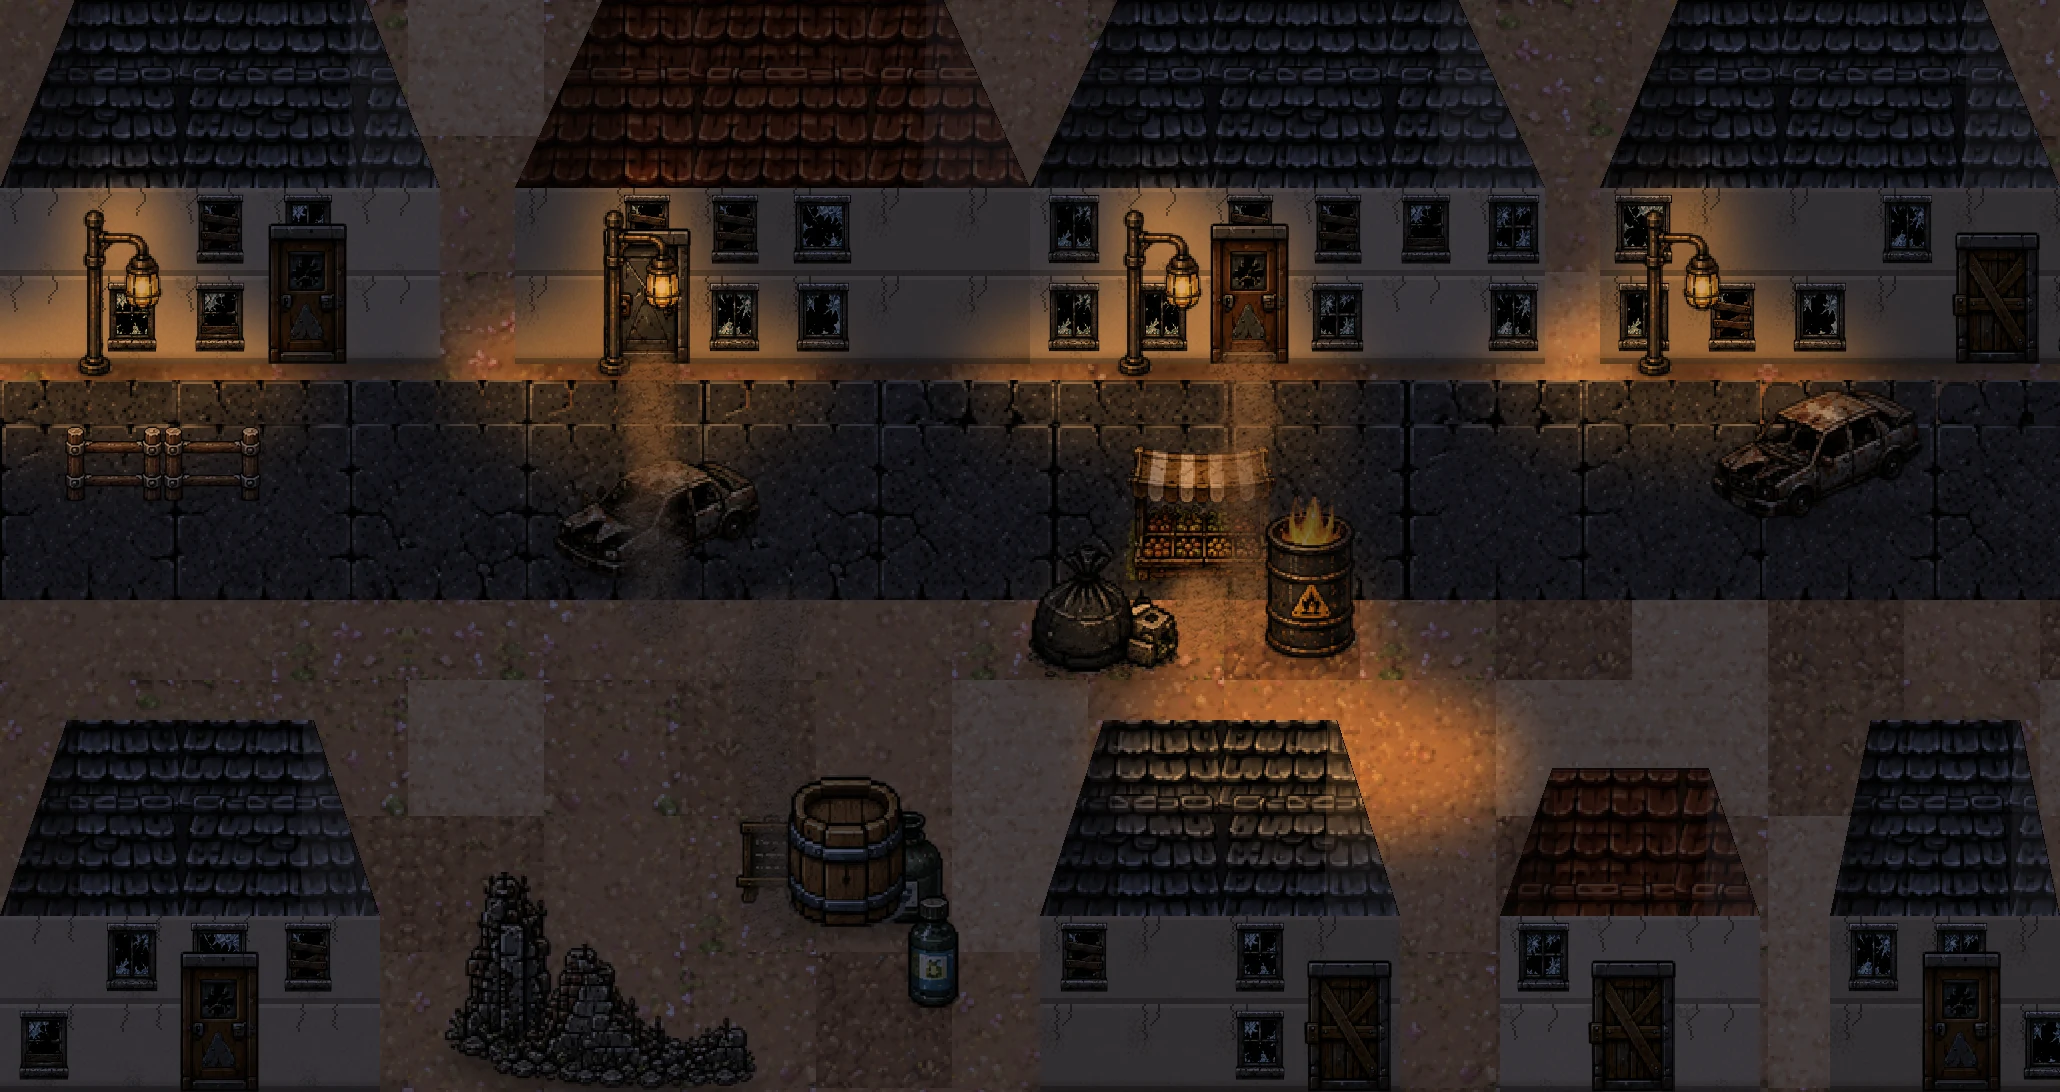
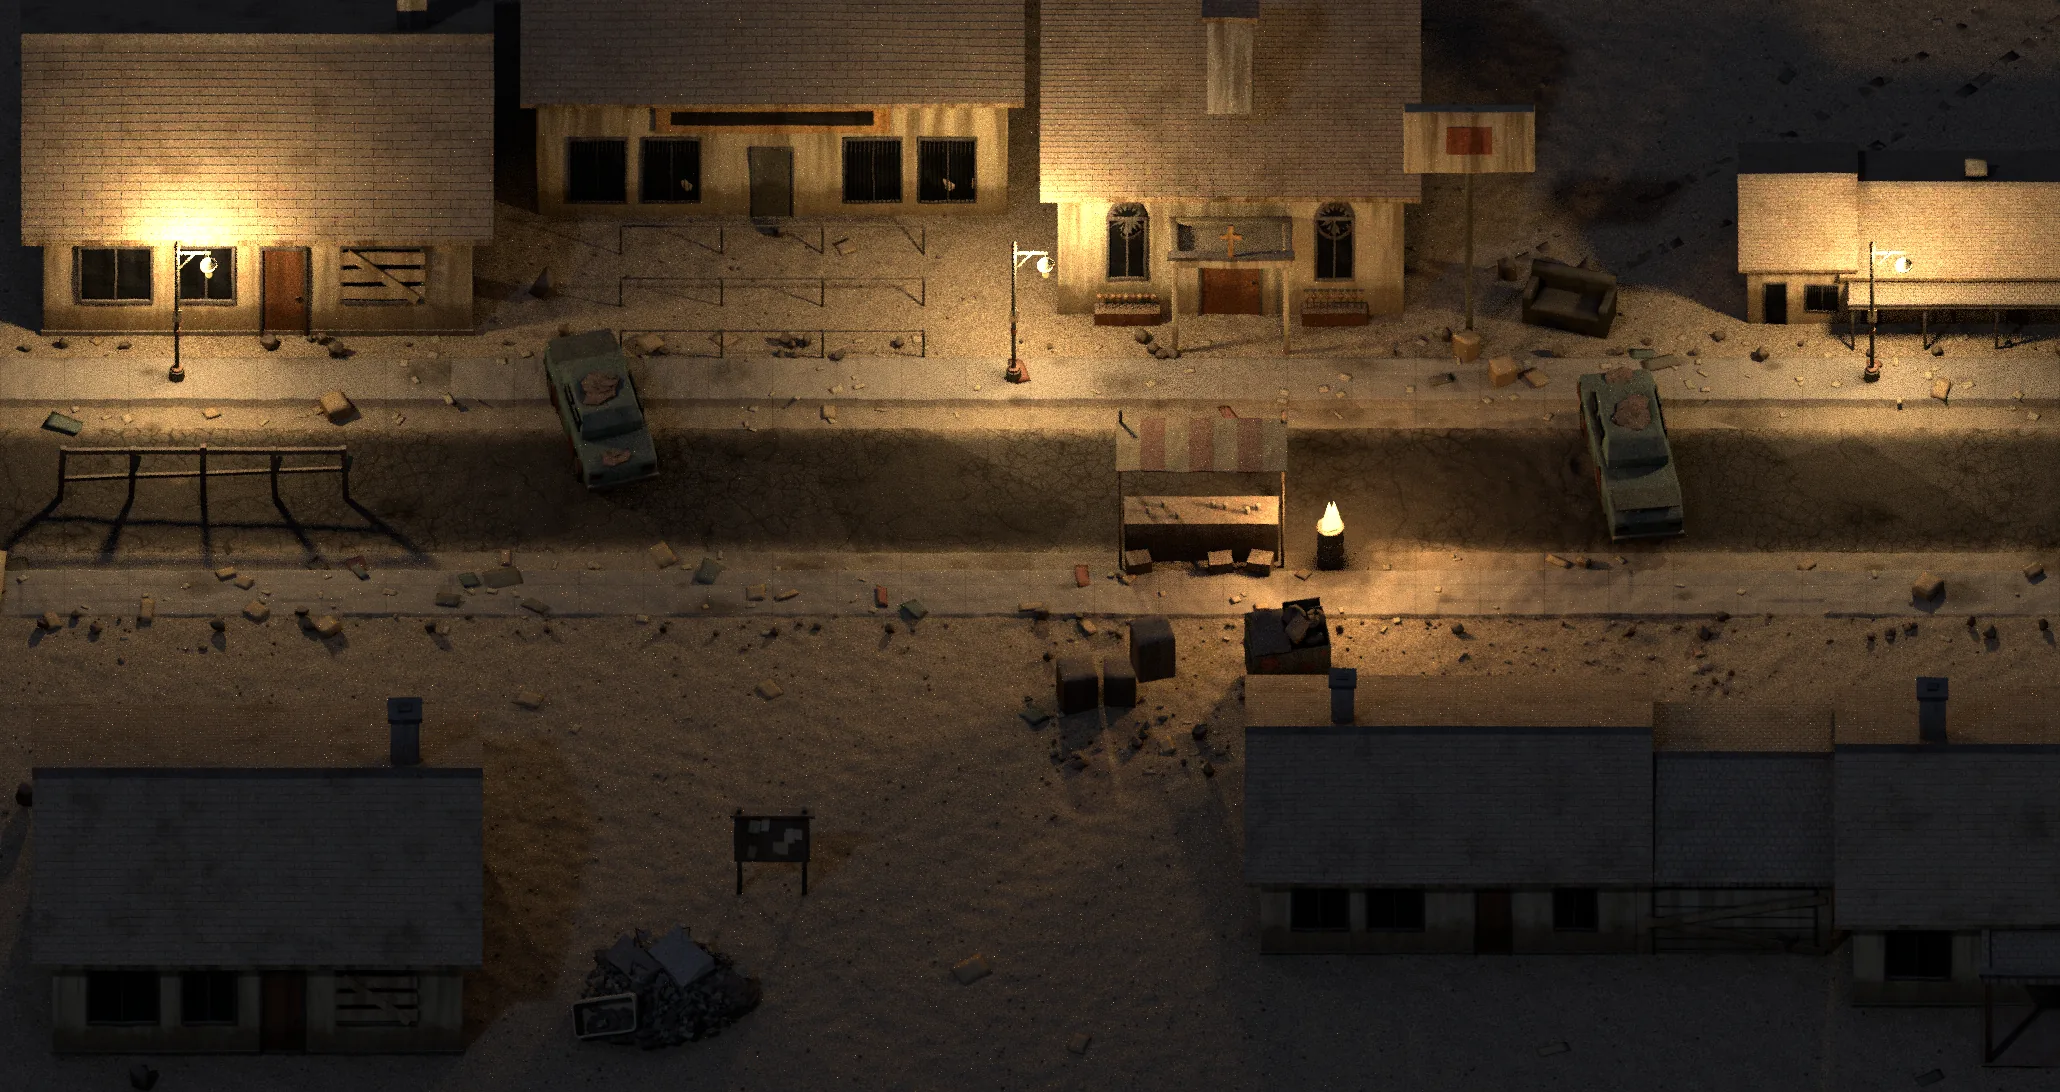
COOK [every 2D asset into 3D]: the settlement screen's town, day and night, built in 3D and swapped in, no card (rule 123): the biggest flat picture after the floor (the whole screen); the pawn shop in the barber's box, the chapel in the clinic's, the stall, the hitching posts and the notice board e
Claude-Session: https://claude.ai/code/session_01HU7mq5KPMygEohHgjSiqmj

diff --git a/tools/bohemia_cook_the_settlements_through_the_rig_10_20_26.py b/tools/bohemia_cook_the_settlements_through_the_rig_10_20_26.py
@@ -19,6 +19,7 @@ in slices/settlement_ground/) has its building or thing seated in its box, the f
 taps and its lit-under-the-finger land on what they name.
 
   <venv>/bin/python tools/bohemia_cook_the_settlements_through_the_rig_10_20_26.py [town_0 camp_1 ...]   (about 6 min a place)
+  COOK_NIGHT_ONLY=1 ... (10/23: the night again over a day already rendered)
 
 REFERENCE CHECK (the 9/4 standing duty): the old pictures' hotspots are the twins (where each thing stands); real places:
 an east-valley Las Vegas commercial strip (a pawn shop, a wedding chapel turned to other use, a motel), a Mojave squat
@@ -350,17 +351,20 @@ def render(p):
             for n in m.node_tree.nodes:
                 if n.type in ('AMBIENT_OCCLUSION', 'BEVEL'): n.samples = 1
     os.makedirs(os.path.join(OUT, 'render'), exist_ok=True)
-    day = os.path.join(OUT, 'render', p['name'] + '.png'); sc.render.filepath = day; bpy.ops.render.render(write_still=True)
+    day = os.path.join(OUT, 'render', p['name'] + '.png'); sc.render.filepath = day
+    if not (os.environ.get('COOK_NIGHT_ONLY') and os.path.exists(day)): bpy.ops.render.render(write_still=True)
     night = None
     if p['night'] and not os.environ.get('COOK_DAY_ONLY'):
         # NIGHT: the same place under a moon, every lamp and fire lit (the old picture's count of lights)
-        sun.data.energy *= 0.16; sun.data.color = (0.62, 0.72, 1.0)
-        bg = sc.world.node_tree.nodes['Background']; c = bg.inputs[0].default_value; bg.inputs[0].default_value = (c[0] * 0.5, c[1] * 0.6, c[2] * 1.0, 1); bg.inputs[1].default_value *= 0.3
+        # 10/23: the first night read as a grey dusk (the moon at 0.16 of the sun, the sky at 0.3): his old nights are near
+        # black with warm pools under the lamps, so the moon is 0.045 and blue, the sky 0.08, the lamps and fires brighter
+        sun.data.energy *= 0.045; sun.data.color = (0.55, 0.66, 1.0)
+        bg = sc.world.node_tree.nodes['Background']; c = bg.inputs[0].default_value; bg.inputs[0].default_value = (c[0] * 0.45, c[1] * 0.55, c[2] * 1.0, 1); bg.inputs[1].default_value *= 0.08
         for (x, y, h) in pl.lamps:
-            L_ = bpy.data.lights.new('lamp', 'POINT'); L_.energy = 900; L_.color = (1.0, 0.66, 0.32); L_.shadow_soft_size = 0.3
+            L_ = bpy.data.lights.new('lamp', 'POINT'); L_.energy = 1600; L_.color = (1.0, 0.62, 0.28); L_.shadow_soft_size = 0.3
             o = bpy.data.objects.new('lamp_light', L_); sc.collection.objects.link(o); o.location = (x, y, h * zs)
         for (x, y, r) in pl.fires:
-            L_ = bpy.data.lights.new('fire', 'POINT'); L_.energy = 520; L_.color = (1.0, 0.5, 0.18); L_.shadow_soft_size = 0.4
+            L_ = bpy.data.lights.new('fire', 'POINT'); L_.energy = 900; L_.color = (1.0, 0.5, 0.18); L_.shadow_soft_size = 0.4
             o = bpy.data.objects.new('fire_light', L_); sc.collection.objects.link(o); o.location = (x, y, 1.6 * zs)
         night = os.path.join(OUT, 'render', p['name'] + '_night.png'); sc.render.filepath = night; bpy.ops.render.render(write_still=True)
     json.dump(dict(name=p['name'], lamps=pl.lamps, fires=pl.fires, junk=NF.LEDGER.get('junk'), seed=seed), open(os.path.join(OUT, 'render', p['name'] + '.json'), 'w'))
